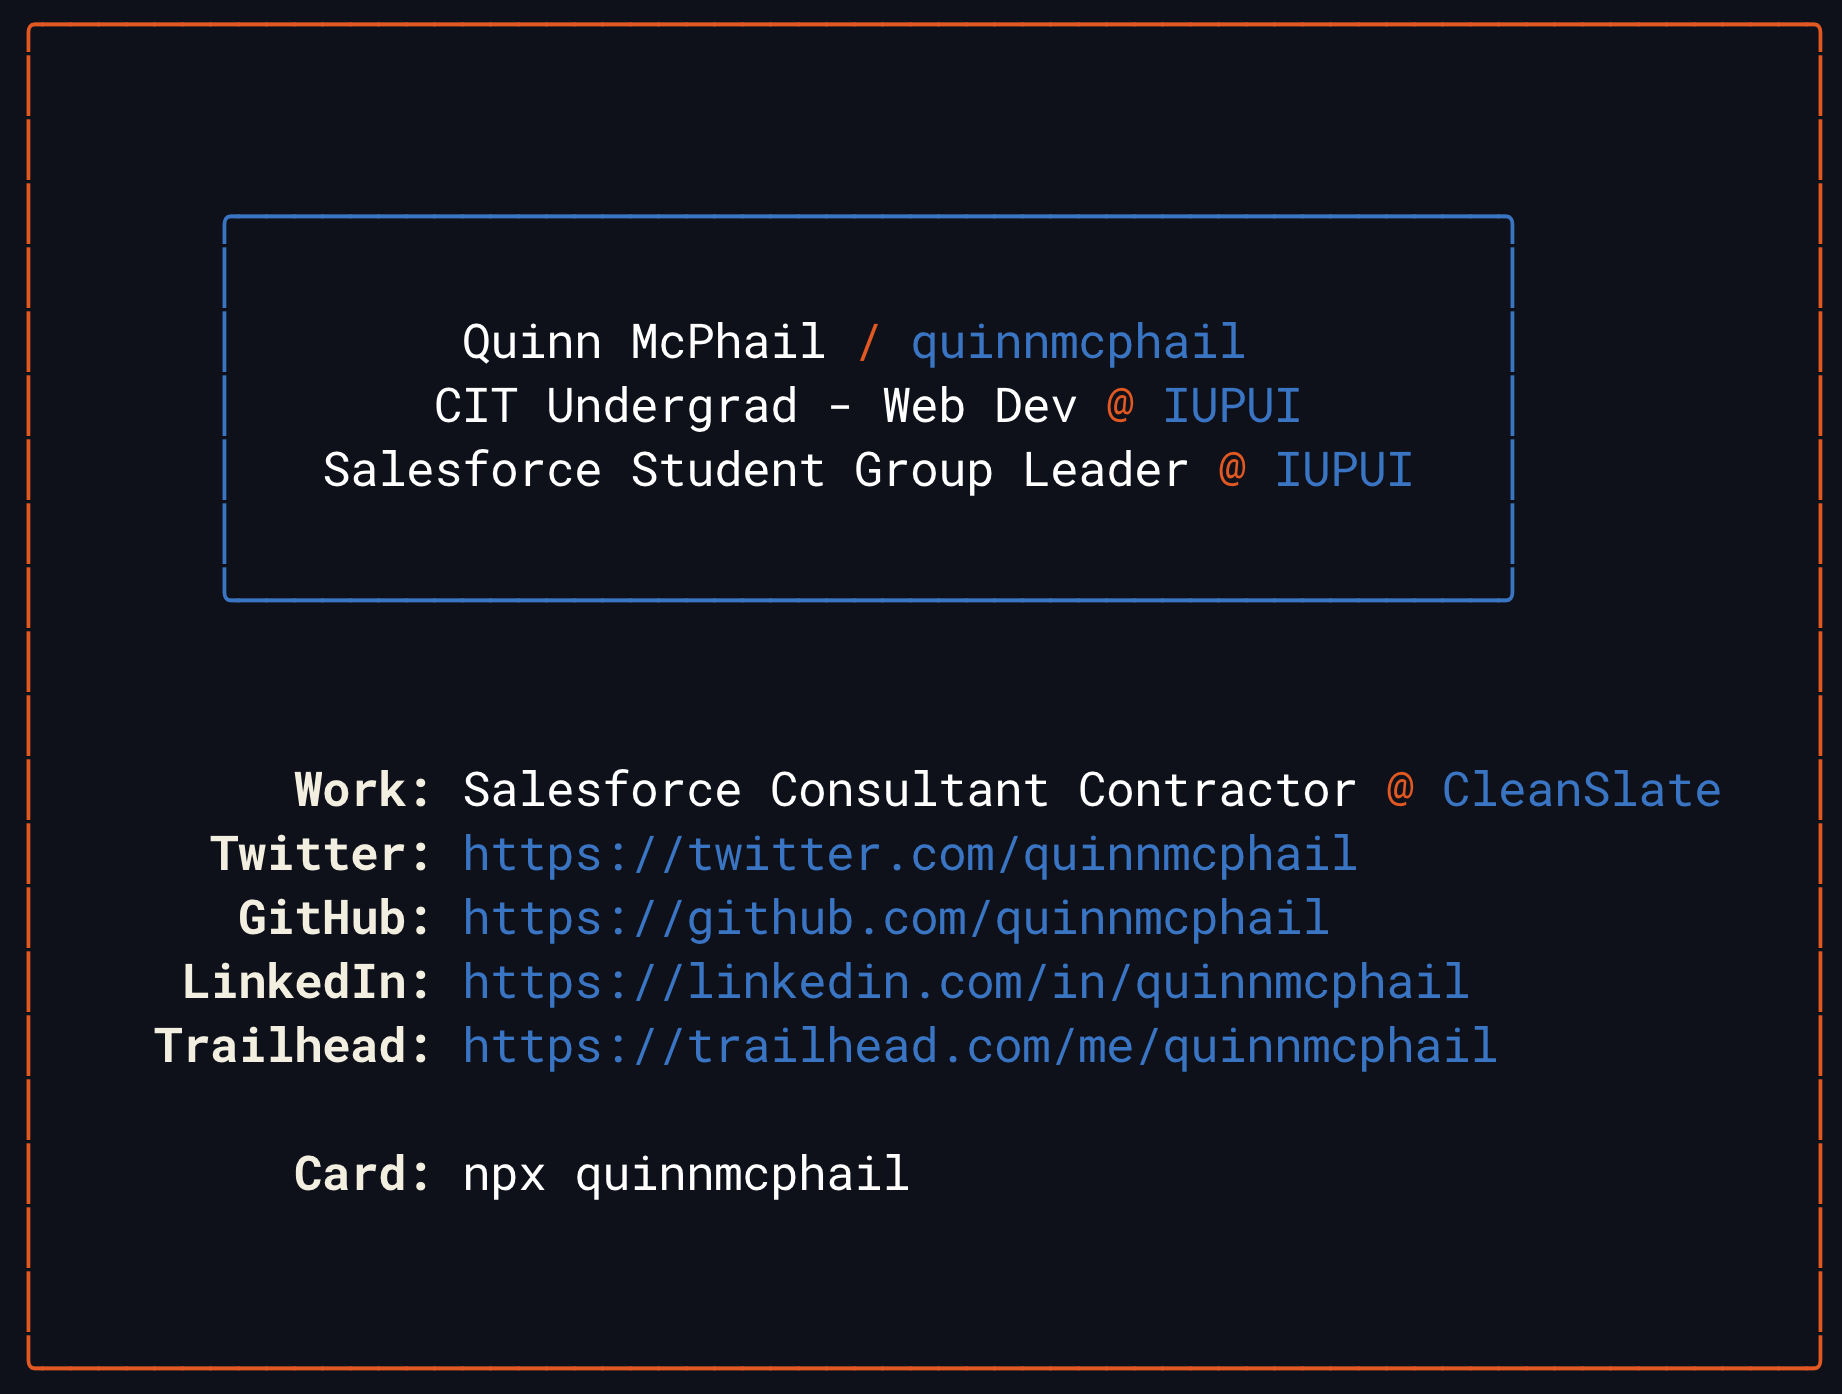
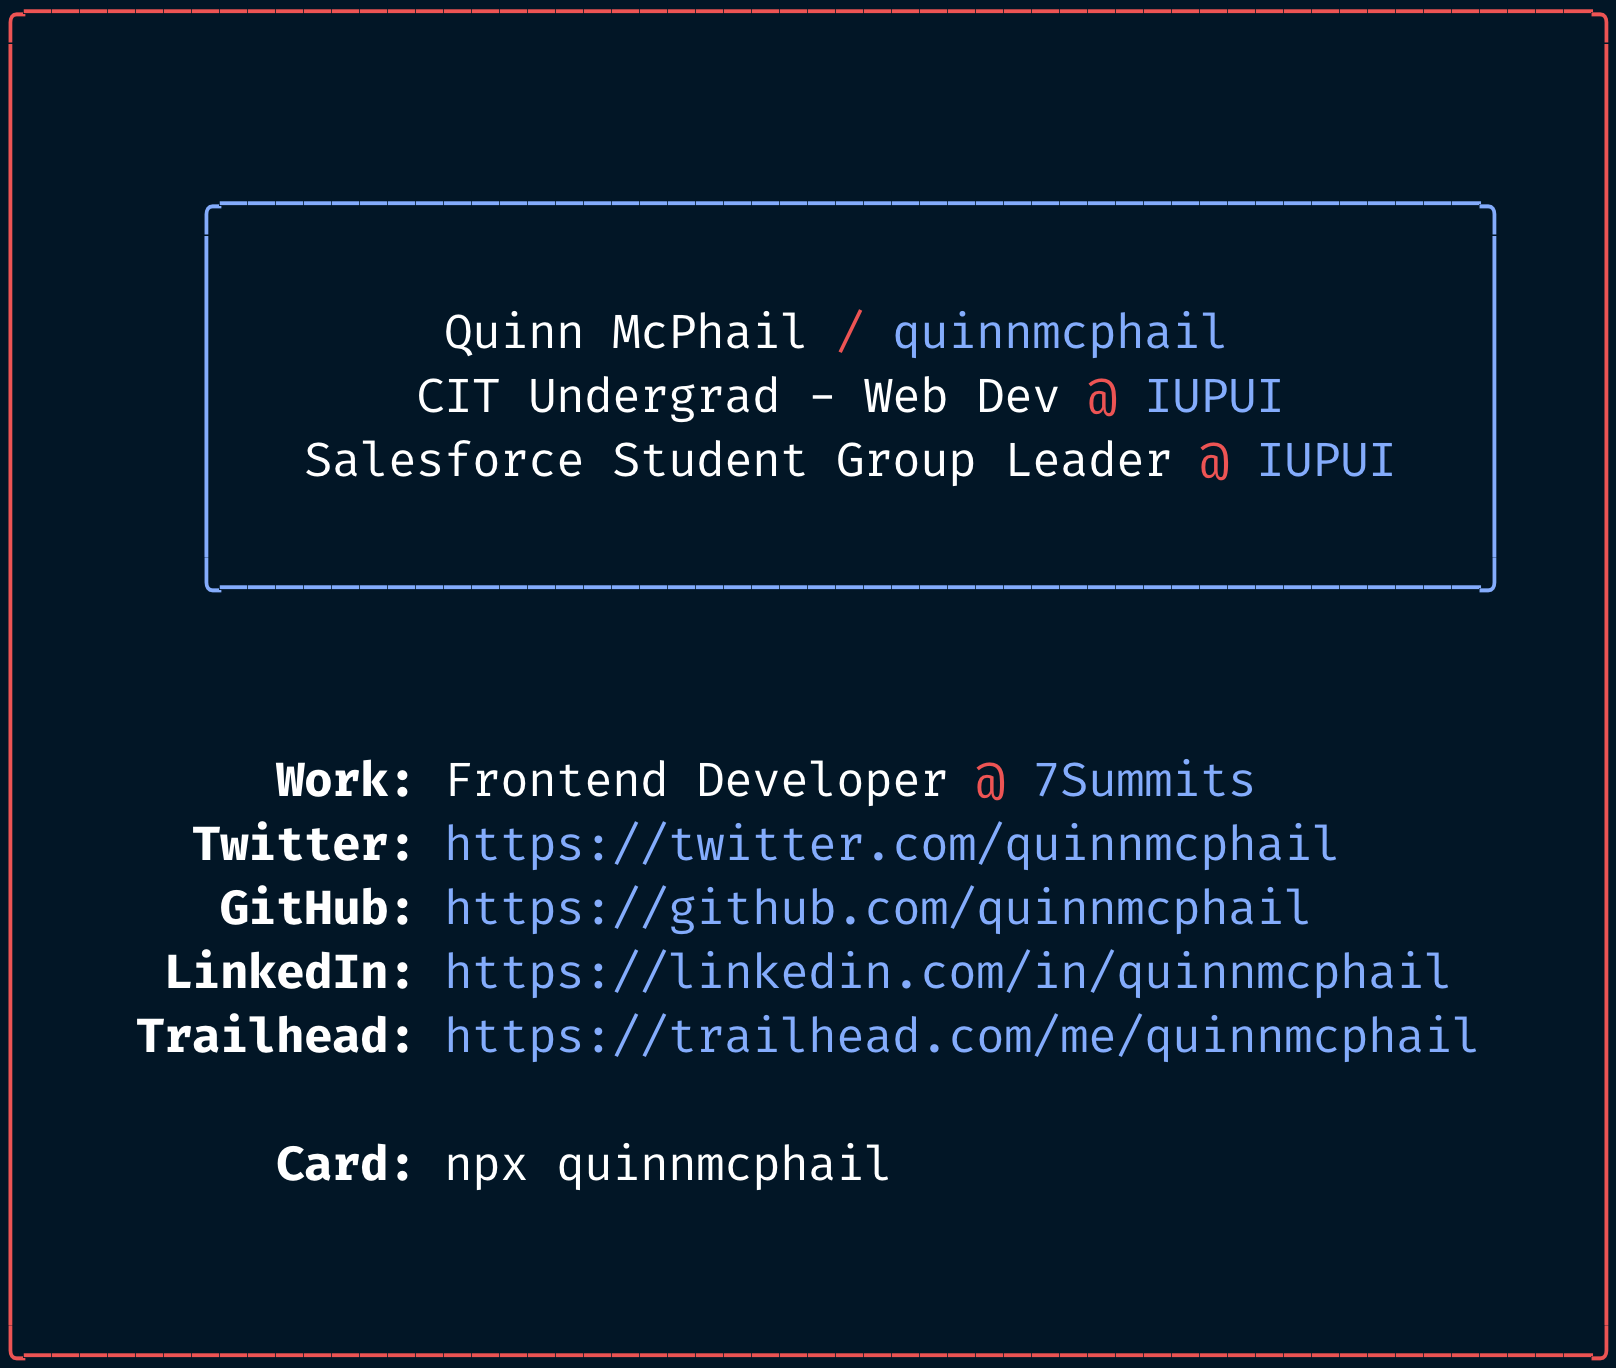
Changed work

diff --git a/build.js b/build.js
@@ -25,8 +25,8 @@ const data = {
   studentGroup: chalk.white("Salesforce Student Group Leader"),
   school: chalk.blue("IUPUI"),
   handle: chalk.blue("quinnmcphail"),
-  workTitle: chalk.white("Salesforce Consultant Contractor"),
-  workLocation: chalk.blue("CleanSlate"),
+  workTitle: chalk.white("Frontend Developer"),
+  workLocation: chalk.blue("7Summits"),
   twitter: chalk.blue("https://twitter.com/quinnmcphail"),
   github: chalk.blue("https://github.com/quinnmcphail"),
   linkedin: chalk.blue("https://linkedin.com/in/quinnmcphail"),
